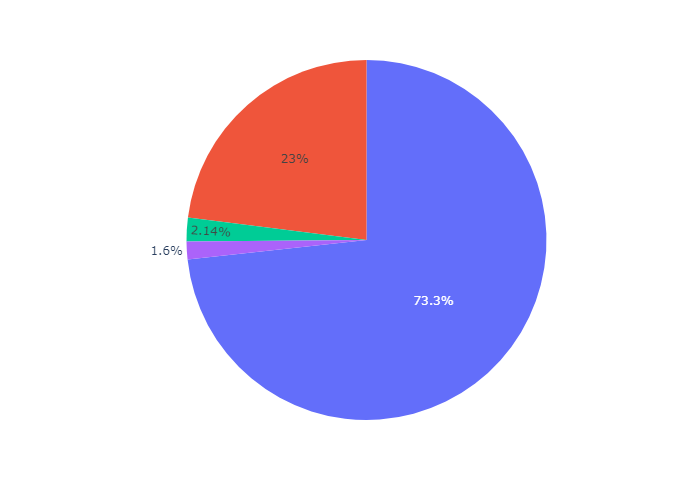
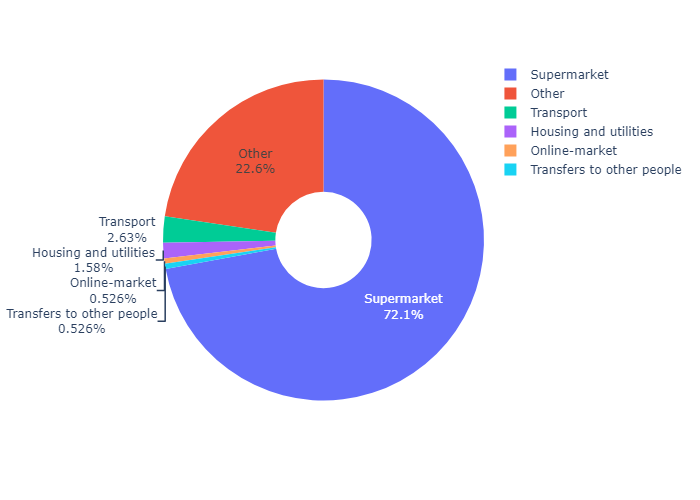
28: Pie_chart update

Changed region(s): [[0.0, 0.12, 0.99, 0.84]]

diff --git a/main.py b/main.py
@@ -154,7 +154,8 @@ def create_pie_chart():
     a = df['price'].value_counts()
     b = df['category'].value_counts()
 
-    fig = px.pie(labels=b.index, values=b.values)
+    fig = px.pie(values=b.values, names=b.index, hole=0.3)
+    fig.update_traces(textinfo="percent+label")
     fig.write_image("pie_chart/pie_budget.png")
 
 def update_chart_image():
